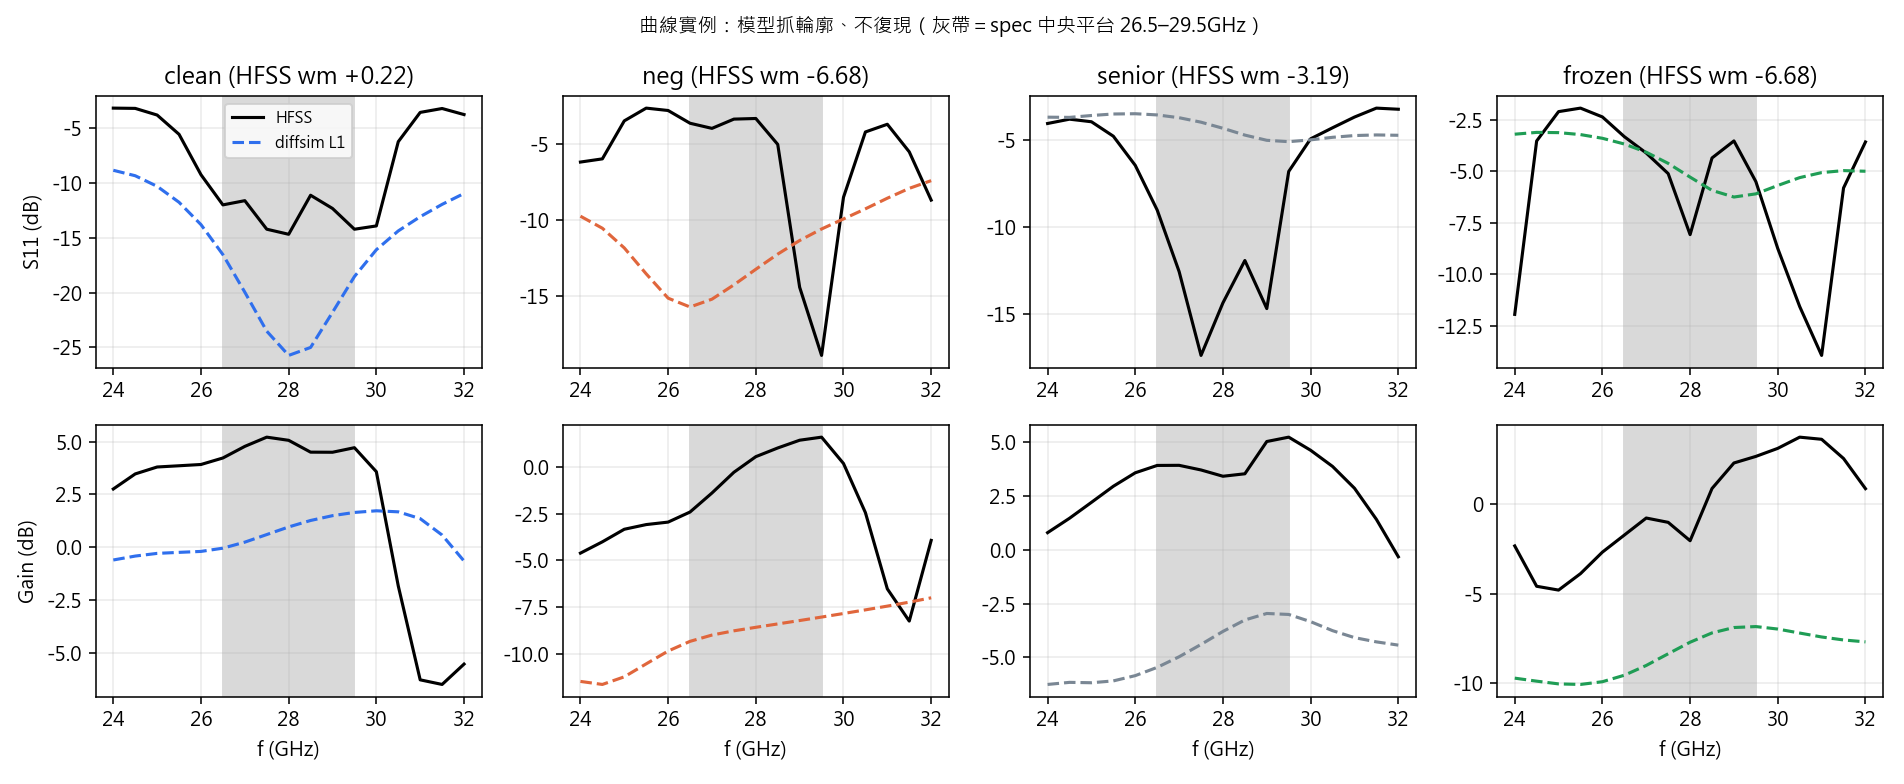
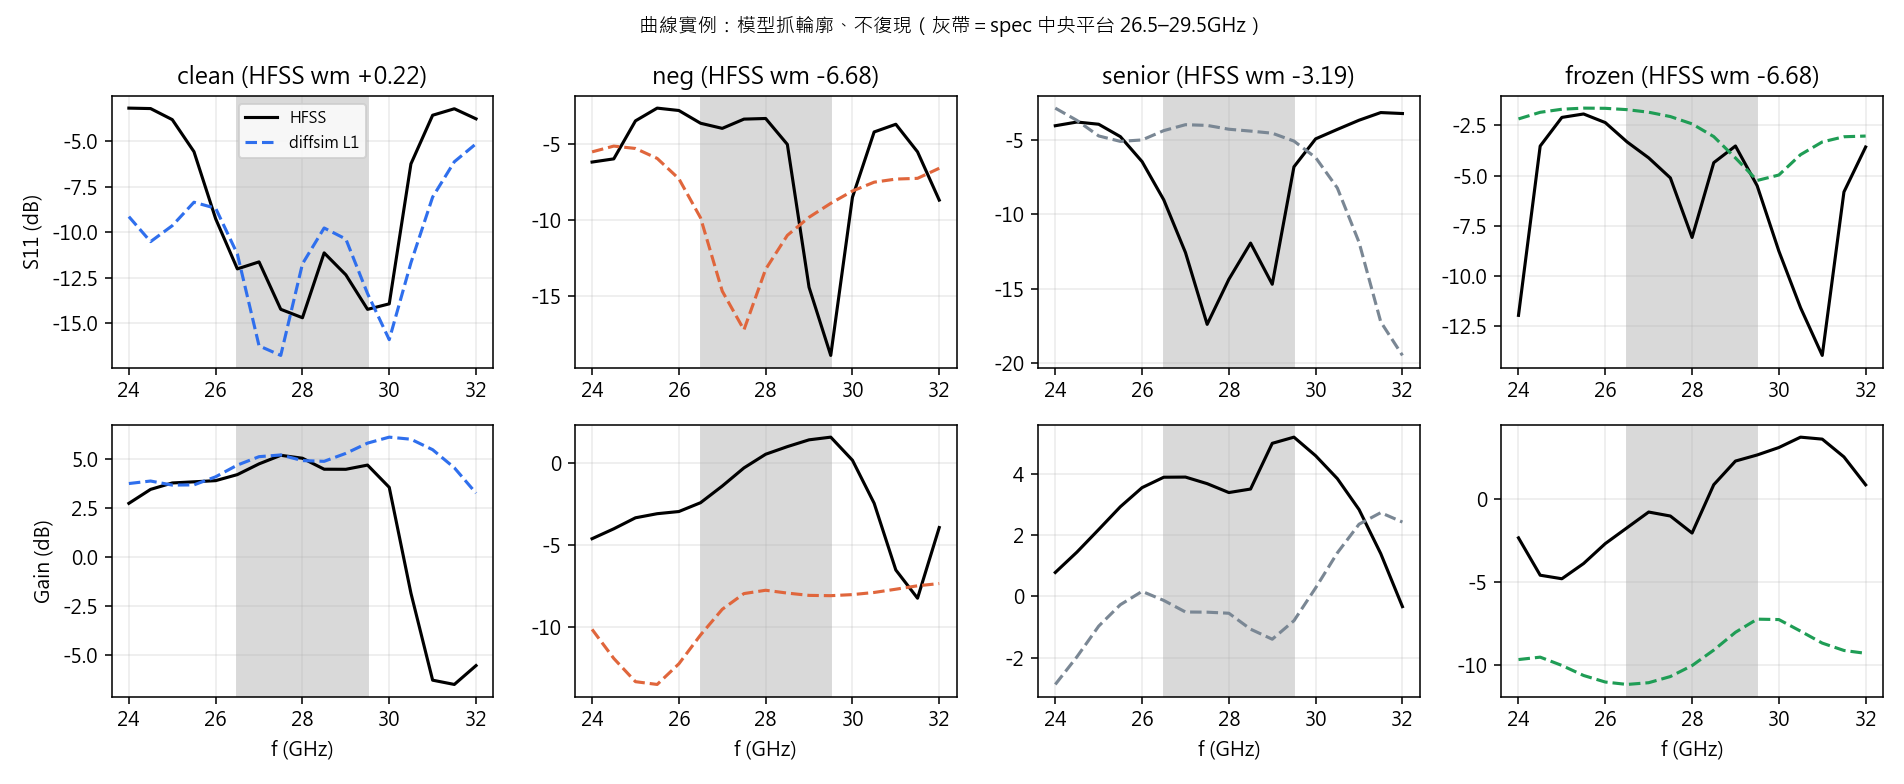
feat(diffsim): GATE 1 v2 通過(val pooled ρ=+0.508);L2 擬核迴圈
修完對抗式驗證的 6 個問題後重跑(fit 重新選參 er=3.0/Q=15/gap=2/rad_eff):
  pooled +0.434 → **+0.508** [CI +0.355,+0.632]
  clean  +0.690 → +0.756
  senior −0.140 → **+0.352**(Gain 那一路修好,粉塵域從反指標變成有訊號)
  neg/frozen 仍 ~0.05-0.08(CI 跨 0)→ 負片域維持「懸而未決」,不宣稱解決 OOD

L2 擬核(l2fit): 對解算器反傳,只用 fit 分割
  加 NaN 防護: dB 地板(|Γ|→0 的 −120dB 離群值會炸 Huber 梯度)、b 夾在物理範圍
  (太小→自項發散→矩陣奇異)、非有限 loss 跳過、取最佳步而非最後一步
L2 現況(dev 早讀,只有解析校準未擬資料): pooled +0.113 / **neg +0.489**(p=0.001)/
  clean −0.253。共振頻率對(閉式解 <6%)但 Re(Zin) 低 ~10× → S11 谷深不夠
  (中位 −2.7dB vs 真值 −12.4dB)。診斷: DCIM 兩項鏡像都用 n=√εr,但輻射是以 k₀
  在空氣中傳 → 缺自由空間那一支 → 這正是擬核要修的。

Claude-Session: https://claude.ai/code/session_01Ay8ejAwPyuUkFqBT7PfnJN

diff --git a/script/diffsim/run.py b/script/diffsim/run.py
@@ -199,13 +199,151 @@ def cmd_gate1(args):
     return ok
 
 
+L2_PARAMS = os.path.join(D.CACHE_DIR, "l2_params.json")
+
+
+def build_l2(scale=None):
+    """依存下來的解析校準結果建 L2 求解器。"""
+    import json
+    from .l2 import MoML2, DCIMKernel
+    import torch
+    if scale is None:
+        scale = json.load(open(L2_PARAMS, encoding="utf-8"))["a_scale"] \
+            if os.path.exists(L2_PARAMS) else 2.48
+    m = MoML2(kernel=DCIMKernel())
+    with torch.no_grad():
+        m.kernel.a.data[0, :, 0] *= scale
+    return m, scale
+
+
+def cmd_l2cal(args):
+    """L2 核的解析校準：**不用 HFSS 資料**，只對閉式微帶物理。"""
+    import json
+    from .l2 import calibrate_analytic
+    scale, err = calibrate_analytic()
+    os.makedirs(D.CACHE_DIR, exist_ok=True)
+    with open(L2_PARAMS, "w", encoding="utf-8") as fh:
+        json.dump(dict(a_scale=scale, rms_log_err=err), fh)
+
+
+def cmd_l2eval(args):
+    """L2 在指定分割上的 ρ（迭代看 dev；gate 走 `gate2`）。"""
+    idx = D.load()
+    split, _ = D.assign_split(idx)
+    sel = pick(idx, split, args.split, args.n)
+    m, scale = build_l2(args.scale)
+    print(f"L2（a_A 縮放 {scale:.3f}）在 {args.split}：{len(sel)} 筆")
+    t = time.time()
+    pred = m.predict(idx["x"][sel].astype(np.float64), batch=args.batch)
+    print(f"  {time.time() - t:.0f}s（{(time.time() - t) / len(sel) * 1000:.0f} ms/筆）")
+    np.savez_compressed(_cache_path(f"l2_{args.split}"), pred=pred, sel=sel, scale=scale)
+    wm_p, ms, mg = margins(pred)
+    wm_t, mst, mgt = margins(idx["y"][sel])
+    report_rho(wm_p, wm_t, idx["stratum"][sel], tag=f"L2 裸（{args.split}）")
+    print(f"  通道：pooled ρ(mS11)={rank_rho(ms, mst)[0]:+.3f}  ρ(mGain)={rank_rho(mg, mgt)[0]:+.3f}")
+
+
+def cmd_l2fit(args):
+    """擬核（`docs/diffsim.md` §3 L2 方案 b）：**對解算器反傳**，不另寫擬合器。
+
+    只用 `fit` 分割。解析校準已經把共振頻率調對（<6%），這裡要修的是**輻射電阻**——
+    初值的兩項鏡像都用 n=√εr，但輻射本身是以 k₀ 在空氣中傳的，所以 Re(Zin) 系統性偏低
+    ~10×、S11 谷深不夠（dev 中位 −2.7dB vs 真值 −12.4dB）。
+    """
+    import json
+    import torch
+    idx = D.load()
+    split, _ = D.assign_split(idx)
+    sel = pick(idx, split, "fit", args.n)
+    m, scale = build_l2(args.scale)
+    x = torch.as_tensor(idx["x"][sel].astype(np.float64)).reshape(-1, 25, 25)
+    y = torch.as_tensor(idx["y"][sel].astype(np.float64))
+    f = np.linspace(24e9, 32e9, args.nfreq)
+    jf = np.round(np.linspace(0, 16, args.nfreq)).astype(int)          # 對齊資料集頻點
+    opt = torch.optim.Adam(m.kernel.parameters(), lr=args.lr)
+    g = torch.Generator().manual_seed(0)
+    hub = torch.nn.HuberLoss(delta=3.0)
+    bad, hist, best = 0, [], (float("inf"), None)
+    print(f"擬核：fit {len(sel)} 筆、{args.nfreq} 頻點、{args.steps} 步、lr={args.lr}")
+    for step in range(args.steps):
+        ix = torch.randperm(len(sel), generator=g)[:args.batch]
+        out = m.solve(x[ix], freqs=f)
+        loss = hub(out["S11"], y[ix][:, :17][:, jf]) + hub(out["Gain"], y[ix][:, 17:][:, jf])
+        opt.zero_grad()
+        if not torch.isfinite(loss):                 # 奇異矩陣/離群 dB → 跳過，別讓 NaN 汙染參數
+            bad += 1
+            print(f"  step {step:3d}  loss 非有限，跳過（累計 {bad}）", flush=True)
+            continue
+        loss.backward()
+        gn = torch.nn.utils.clip_grad_norm_(m.kernel.parameters(), 0.5)
+        if not torch.isfinite(gn):
+            bad += 1
+            continue
+        opt.step()
+        hist.append(float(loss))
+        if float(loss) < best[0]:
+            best = (float(loss), {k: v.detach().clone() for k, v in m.kernel.state_dict().items()})
+        if step % max(1, args.steps // 20) == 0 or step == args.steps - 1:
+            print(f"  step {step:3d}  loss {float(loss):.3f}（最佳 {best[0]:.3f}）", flush=True)
+    if best[1] is None:
+        raise SystemExit("擬核全程沒有有效步——降 lr 或檢查核參數範圍")
+    m.kernel.load_state_dict(best[1])                # 取最佳而非最後一步
+    print(f"最佳 loss {best[0]:.3f}（{len(hist)} 有效步 / {bad} 跳過）")
+    st = {k: v.detach().tolist() for k, v in m.kernel.state_dict().items()}
+    with open(L2_PARAMS, "w", encoding="utf-8") as fh:
+        json.dump(dict(a_scale=scale, kernel=st, fitted=True, n=len(sel),
+                       steps=args.steps, nfreq=args.nfreq), fh)
+    print(f"核參數落地 {L2_PARAMS}")
+
+
+def cmd_gate2(args):
+    """L2 gate：判準＝**裸** pooled ρ ≥ 0.60（`docs/diffsim.md` §5，發車前寫死）。"""
+    idx = D.load()
+    split, _ = D.assign_split(idx)
+    sel = pick(idx, split, "val")
+    m, scale = build_l2(args.scale)
+    print(f"L2 參數（解析校準，未看過 val）：a_A 縮放 = {scale:.3f}")
+    pred = m.predict(idx["x"][sel].astype(np.float64), batch=args.batch)
+    y, st = idx["y"][sel], idx["stratum"][sel]
+    wm_p, _, _ = margins(pred)
+    wm_t, _, _ = margins(y)
+    rhos = report_rho(wm_p, wm_t, st, tag="L2 裸（val，主 KPI ①）")
+    selc = pick(idx, split, "fit", args.calib)
+    pc = m.predict(idx["x"][selc].astype(np.float64), batch=args.batch)
+    a, b = affine_fit(pc, idx["y"][selc])
+    mae = np.abs(affine_apply(pred, a, b)[:, :17] - y[:, :17]).mean(0)
+    print(f"\n② 仿射後 S11 每頻點 MAE：中位 {np.median(mae):.2f}，帶內 {mae[5:12].mean():.2f} dB")
+    print(f"③ 負片域 ρ = {rhos.get('neg', float('nan')):+.3f}；"
+          f"凍結尺 ρ = {rhos.get('frozen', float('nan')):+.3f}")
+    ok = rhos.get("ALL", 0) >= 0.60
+    print(f"\n===== GATE 2：pooled ρ = {rhos.get('ALL', float('nan')):+.3f} vs 判準 0.60 → "
+          f"{'通過' if ok else '**不通過**'} =====")
+
+
 def main():
     ap = argparse.ArgumentParser(description="diffsim 驅動")
     sub = ap.add_subparsers(dest="cmd", required=True)
+    sub.add_parser("l2cal")
+    le = sub.add_parser("l2eval")
+    le.add_argument("--split", default="dev")
+    le.add_argument("--n", type=int, default=None)
+    le.add_argument("--batch", type=int, default=8)
+    le.add_argument("--scale", type=float, default=None)
+    g2 = sub.add_parser("gate2")
+    g2.add_argument("--batch", type=int, default=8)
+    g2.add_argument("--calib", type=int, default=150)
+    g2.add_argument("--scale", type=float, default=None)
     g1 = sub.add_parser("gate1")
     g1.add_argument("--batch", type=int, default=24)
     g1.add_argument("--device", default="cpu")
     g1.add_argument("--calib", type=int, default=300, help="仿射校準用的 fit 筆數/stratum")
+    lf = sub.add_parser("l2fit")
+    lf.add_argument("--n", type=int, default=400, help="每 stratum 取幾筆（fit 分割）")
+    lf.add_argument("--batch", type=int, default=24)
+    lf.add_argument("--nfreq", type=int, default=9)
+    lf.add_argument("--steps", type=int, default=120)
+    lf.add_argument("--lr", type=float, default=0.02)
+    lf.add_argument("--scale", type=float, default=None)
     fs = sub.add_parser("fitscan")
     fs.add_argument("--n", type=int, default=200, help="每 stratum 取幾筆（fit 分割）")
     fs.add_argument("--batch", type=int, default=24)
@@ -228,7 +366,9 @@ def main():
             p.add_argument("--ers", default="2.8,3.1,3.55")
             p.add_argument("--qs", default="8,20,50")
     a = ap.parse_args()
-    {"predict": cmd_predict, "scan": cmd_scan, "fitscan": cmd_fitscan, "gate1": cmd_gate1}[a.cmd](a)
+    {"predict": cmd_predict, "scan": cmd_scan, "fitscan": cmd_fitscan, "gate1": cmd_gate1,
+     "l2cal": cmd_l2cal, "l2eval": cmd_l2eval, "l2fit": cmd_l2fit,
+     "gate2": cmd_gate2}[a.cmd](a)
 
 
 if __name__ == "__main__":

diff --git a/script/diffsim/l2.py b/script/diffsim/l2.py
@@ -31,7 +31,7 @@ n=(√εr, √εr)。b_reg 同時扮演自項的正則化（rooftop 自耦合不
 import numpy as np
 import torch
 
-from .geom import N, DX, H, EPS_R, Z0, C0, MU0, EPS0, FREQS, FEED_ROW, feed_weights
+from .geom import N, DX, H, EPS_R, Z0, C0, MU0, EPS0, FREQS, FEED_ROW, feed_weights  # noqa: F401
 
 NSTUB = 1                     # 饋線樁列數（讓 x=5.0mm 接面上的屋頂有立足點）
 NR = N + NSTUB                # 延伸格列數（x 方向）
@@ -73,7 +73,8 @@ class DCIMKernel(torch.nn.Module):
         """r (…,) 距離表、k0 (nf,) → (2, nf, …) 的 G_A / G_V 值。"""
         a = torch.complex(self.a[..., 0], self.a[..., 1])          # (2, n_img)
         n = torch.complex(self.n[..., 0], self.n[..., 1])
-        b = self.b.exp()
+        #? b 夾在 [0.05dx, 40h]：b 太小 → 自項 1/(4πb) 發散、Z 奇異 → 擬核當場 NaN。
+        b = self.b.clamp(np.log(0.05 * DX), np.log(40 * H)).exp()
         rr = torch.sqrt(r[None, None, ...] ** 2 + (b ** 2)[:, :, None])          # (2,ni,…)
         ph = torch.exp(-1j * k0[None, None, :, None] * n[:, :, None, None]
                        * rr[:, :, None, :])                                      # (2,ni,nf,…)
@@ -202,11 +203,14 @@ class MoML2:
         itot = (cur[:, :, self.drive].sum(-1) * DX)
         zin = 1.0 / itot
         gam = (zin - Z0) / (zin + Z0)
-        s11 = 20 * torch.log10(gam.abs().clamp(1e-6, 1.0))
+        #? dB 地板 −50/−40：HFSS 實務範圍就這麼大，不設地板時 |Γ|→0 會產生 −120dB
+        #  離群值，擬核時直接把梯度炸成 NaN（實測踩到）。
+        s11 = 20 * torch.log10(gam.abs().clamp(3.2e-3, 1.0))
         u0, prad = self.farfield(cur, f)
         d0 = (4 * np.pi * u0 / prad.clamp_min(1e-300)).clamp_min(1e-4)
         mism = (1 - gam.abs() ** 2).clamp_min(1e-6)
-        return dict(S11=s11, Gain=10 * torch.log10(d0 * mism), Zin=zin, D0=d0, Prad=prad, J=cur)
+        gain = (10 * torch.log10(d0 * mism)).clamp_min(-40.0)
+        return dict(S11=s11, Gain=gain, Zin=zin, D0=d0, Prad=prad, J=cur)
 
     # ----------------------------------------------------------------- 遠場
     def _setup_farfield(self, n_theta, n_phi):

diff --git a/docs/log/analysis-08-diffsim.md b/docs/log/analysis-08-diffsim.md
@@ -179,9 +179,39 @@ fit 上 pooled ρ = +0.514。指令 `python -m script.diffsim.run gate1`。
 靜電容極限 5 位數、座標方位三重確認無轉置、饋線 Z₀ 51.03Ω）——問題只在輻射／Gain 半邊。
 完整報告見 §4.3。
 
-### 4.2 修正後重報（GATE 1 v2）
+### 4.2 GATE 1 v2（2026-08-03 01:50，修完 6 個問題後重跑；`fit` 重新選參）
 
-（重跑中）
+參數重新在 `fit` 上選（27 組 × 600 筆）：`er=3.0, Q=15, γ_gap=γ_diag=2, rad_eff=True`，
+fit pooled ρ = +0.511。
+
+```
+== rank ρ(diffsim wm, HFSS wm) — L1 裸（val，主 KPI ①）==
+| 分層   | n   | ρ      | 95% CI            | p       |
+| ALL    | 120 | +0.508 | [+0.355, +0.632]  | 3.1e-09 |
+| clean  |  30 | +0.756 | [+0.566, +0.859]  | 1.3e-06 |
+| senior |  30 | +0.352 | [−0.015, +0.668]  | 0.056   |
+| frozen |  30 | +0.075 | [−0.281, +0.429]  | 0.70    |
+| neg    |  30 | +0.052 | [−0.343, +0.464]  | 0.78    |
+② 仿射校準後 S11 每頻點 MAE：中位 3.02 dB，帶內(5:12) 3.59 dB，全帶 2.85 dB
+③ 負片域 ρ = +0.052；凍結尺 ρ = +0.075
+```
+
+### ✅ **GATE 1 通過**：pooled ρ = **+0.508** ≥ 0.40 → L2 值得做。
+
+修 bug 前後對照（同一個 val，同樣的選參流程）：pooled **+0.434 → +0.508**、
+clean +0.690 → **+0.756**、senior **−0.140 → +0.352**（Gain 那一路修好，粉塵域從
+「反指標」變成「有訊號」）。這也回答了 §4.1 的疑慮①：CI 下界從 +0.264 抬到 **+0.355**。
+
+**仍然要誠實講的兩件事**：
+
+1. **負片域還是沒兌現**：neg +0.052、frozen +0.075，兩個 CI 都跨 0。dev(n=150)/fit(n=200)
+   上是 +0.27；val 每層只有 30 筆、CI 涵蓋 dev 值，所以**不是矛盾而是精度不足**，
+   但也不能宣稱「diffsim 解決了 OOD」。判定維持**懸而未決**。
+2. **通過主要仍靠 clean 域**（+0.756）＋層間排序。senior +0.352 的 p=0.056 剛好在邊上。
+
+圖：![](assets/analysis-08/l1_scatter.png) ｜ ![](assets/analysis-08/l1_channel.png)
+｜ ![](assets/analysis-08/l1_perfreq.png) ｜ ![](assets/analysis-08/l1_curves.png)
+（`python script/figs/diffsim_l1.py --split val --er 3.0 --q 15 --gap 2`）
 
 **但要誠實講清楚三件事，不然這個「通過」會被過度解讀**：
 
